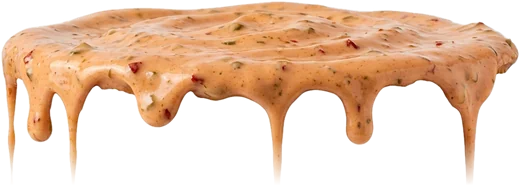
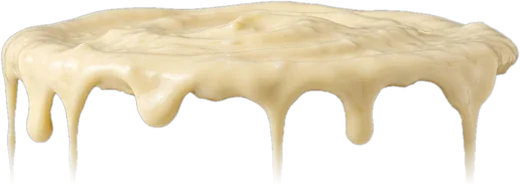
feat: foto do burger vira a pilha montada ao personalizar

diff --git a/monta.js b/monta.js
@@ -1,0 +1,68 @@
+// Burger se montando no diálogo: a foto vira pilha no 1º toque num adicional ou num "Sem…".
+// Medidas em px do desenho (pão com 302 px num palco de 360×340); o palco inteiro escala pra caber no .item-foto.
+import { pilha } from './camadas.js';
+
+const ESCALA = 0.58, W = 360, H = 340; // imagens recortadas com 520 px de largura → pão de 302 px
+
+export function montar(foto, item, loja) {
+  const m = loja.monta, pao = item.pao ? `pao-${item.pao}` : 'pao';
+  let palco, monte, topo, estado = [];
+
+  function camada(id) {
+    const d = document.createElement('div');
+    d.className = 'camada';
+    const img = new Image();
+    img.alt = '';
+    img.src = `img/monta/${id}.webp`;
+    img.onload = () => Object.assign(img.style, {
+      width: img.naturalWidth * ESCALA * (m.camadas[id]?.largura ?? 1) + 'px', height: img.naturalHeight * ESCALA + 'px' });
+    img.onerror = () => { d.dataset.sem = 1; d.remove(); if (topo) arruma(); }; // sem arte: a camada não aparece nem ocupa espaço
+    d.append(img);
+    return d;
+  }
+
+  function arruma() {
+    let y = 10 + m.pao.base;
+    estado.filter(c => c.entregue && !c.el.dataset.sem).forEach((c, i) => {
+      const cfg = m.camadas[c.id];
+      c.el.style.bottom = y + (cfg.desloca ?? 0) + 'px';
+      c.el.style.zIndex = 1 + i;
+      y += cfg.passo;
+    });
+    const yTopo = y + m.pao.topo;
+    topo.style.bottom = yTopo + 'px';
+    topo.style.zIndex = 99;
+    monte.style.scale = Math.min(1, (H - 10) / (yTopo + 130)); // pilha alta encolhe (130 ≈ altura do pão de cima)
+  }
+
+  const cabe = () => palco.style.scale = Math.min(foto.clientWidth / W, foto.clientHeight / H);
+
+  function abrir() {
+    foto.className = 'item-foto com-pilha';
+    foto.innerHTML = '<div class="monta-palco"><div class="monta-pilha"></div></div>';
+    palco = foto.firstChild; monte = palco.firstChild;
+    const base = camada(`${pao}-base`); topo = camada(`${pao}-topo`);
+    base.style.bottom = '10px';
+    monte.append(base, topo);
+    // a receita aparece inteira de uma vez; só o que mudar depois anima
+    estado = pilha({ receita: item.camadas, ordem: m.ordem, queijos: m.queijos })
+      .map(c => ({ ...c, el: camada(c.id), entregue: true }));
+    monte.append(...estado.map(c => c.el));
+    new ResizeObserver(cabe).observe(foto);
+    cabe();
+  }
+
+  return {
+    // sem = textos marcados em "Quer tirar algo?"; extras = ids dos adicionais (repetidos); origem = botão tocado
+    atualizar(sem, extras, origem) {
+      if (!palco) abrir();
+      const tirar = sem.map(t => item.tiraCamada?.[t]).filter(Boolean);
+      const nova = pilha({ receita: item.camadas, tirar, extras, ordem: m.ordem, queijos: m.queijos });
+      const chaves = new Set(nova.map(c => c.k)), antigo = new Map(estado.map(c => [c.k, c]));
+      estado.filter(c => !chaves.has(c.k)).forEach(c => c.el.remove());
+      estado = nova.map(c => antigo.get(c.k) ?? { ...c, el: camada(c.id), entregue: true, nova: true });
+      for (const c of estado.filter(c => c.nova)) { delete c.nova; monte.append(c.el); }
+      arruma();
+    },
+  };
+}

diff --git a/app.js b/app.js
@@ -5,6 +5,7 @@ import { VALIDOS } from './numeros.js';
 import { burgersDoPedido } from './avaliacao.js';
 import { $, brl, esc, toast } from './util.js';
 import { LOJA_ID, LOJA } from './lojas/lacarne.mjs';
+import { montar } from './monta.js';
 
 // Material e Firebase (~650 KB) carregam em segundo plano: o cardápio aparece antes, a partir de lojas/lacarne.mjs
 import('./vendor/material.js');
@@ -254,6 +255,15 @@ function abrirItem(item) {
       placeholder="Ex.: cortar ao meio, molho à parte…"></md-outlined-text-field>
     </div>`;
   opinioes(item);
+  // receita e calibragem vêm do arquivo (o item do banco não tem as camadas)
+  const receita = LOJA.cardapio.find(x => x.id === item.id);
+  const foto = $('#itemCorpo .item-foto');
+  const monta = receita?.camadas && foto ? montar(foto, receita, LOJA) : null;
+  const mexeu = origem => monta?.atualizar(marcados('v'), extrasDe(), origem);
+  $('#itemCorpo md-chip-set')?.addEventListener('click', e => {
+    const c = e.target.closest('md-filter-chip');
+    if (c) requestAnimationFrame(() => mexeu(c)); // o chip troca o "selected" depois do clique
+  });
   // ponto escolhido fica destacado igual aos adicionais (o md-radio não expõe o "marcado" pro CSS)
   $('#itemCorpo').addEventListener('change', () =>
     $('#itemCorpo').querySelectorAll('.opt').forEach(o => o.classList.toggle('on', o.querySelector('md-radio').checked)));
@@ -261,11 +271,13 @@ function abrirItem(item) {
     const b = e.target.closest('[data-x]');
     if (!b) return;
     const x = b.dataset.x, n = Math.min(MAX_EXTRA, Math.max(0, (atual.extras[x] || 0) + +b.dataset.d));
+    if (n === (atual.extras[x] || 0)) return;
     atual.extras[x] = n;
     const contador = $('#itemCorpo').querySelector(`[data-n="${x}"]`);
     contador.textContent = n;
     contador.closest('.extra').classList.toggle('on', n > 0);
     atualizarItem();
+    mexeu(b);
   });
   atualizarItem();
   dItem.show();

diff --git a/style.css b/style.css
@@ -128,6 +128,18 @@ main { flex: 1; width: 100%; max-width: 1100px; margin: 0 auto; padding: 0 16px;
 .item-foto img { display: block; width: 100%; height: 100%; object-fit: cover; }
 .item-foto.com-boi img { object-fit: contain; padding: 6%; box-sizing: border-box; }
 @keyframes expandir { from { opacity: 0; transform: scale(.85) translateY(12px); } }
+/* burger se montando (monta.js): a foto vira palco no 1º toque num adicional ou num "Sem…" */
+.item-foto.com-pilha { position: relative; background: var(--creme); }
+.monta-palco { position: absolute; left: 50%; top: 50%; width: 360px; height: 340px; translate: -50% -50%; }
+.monta-pilha { position: absolute; inset: 0; transform-origin: 50% 100%; transition: scale .3s ease-out; }
+.monta-pilha .camada { position: absolute; left: 50%; translate: -50% 0; transition: bottom .25s ease-out; }
+#itemCorpo > .item-foto.com-pilha img, .item-foto.com-pilha img { position: static; display: block; object-fit: fill; }
+.monta-voo { position: fixed; left: 0; top: 0; z-index: 10; pointer-events: none; }
+.monta-voo img { position: absolute; display: block; }
+/* celular: a pilha fica presa no topo enquanto o cliente rola até os adicionais (senão ele nem vê o lanche mudar) */
+@media (max-width: 799px) {
+  .item-foto.com-pilha { position: sticky; top: 0; z-index: 3; aspect-ratio: auto; height: 220px; box-shadow: 0 8px 16px -12px rgb(0 0 0 / .35); }
+}
 /* computador: burger aberto em tela larga e sem rolagem; foto à esquerda na altura do conteúdo, opções compactas à direita */
 @media (min-width: 800px) {
   #itemDialog { width: min(1100px, calc(100% - 64px)); max-width: 1100px; }
